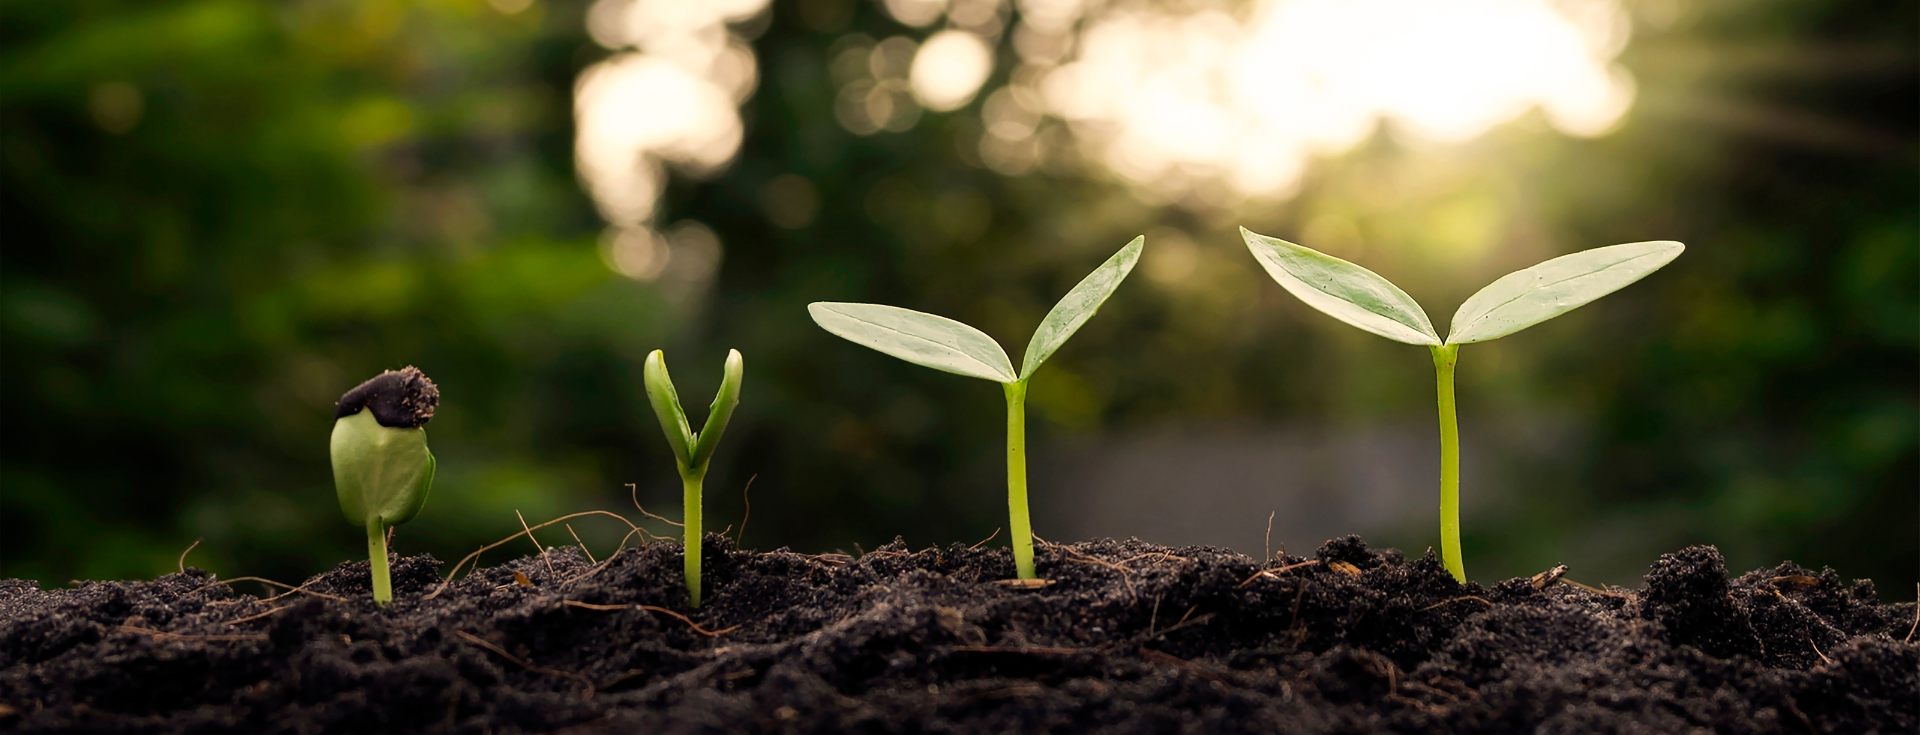
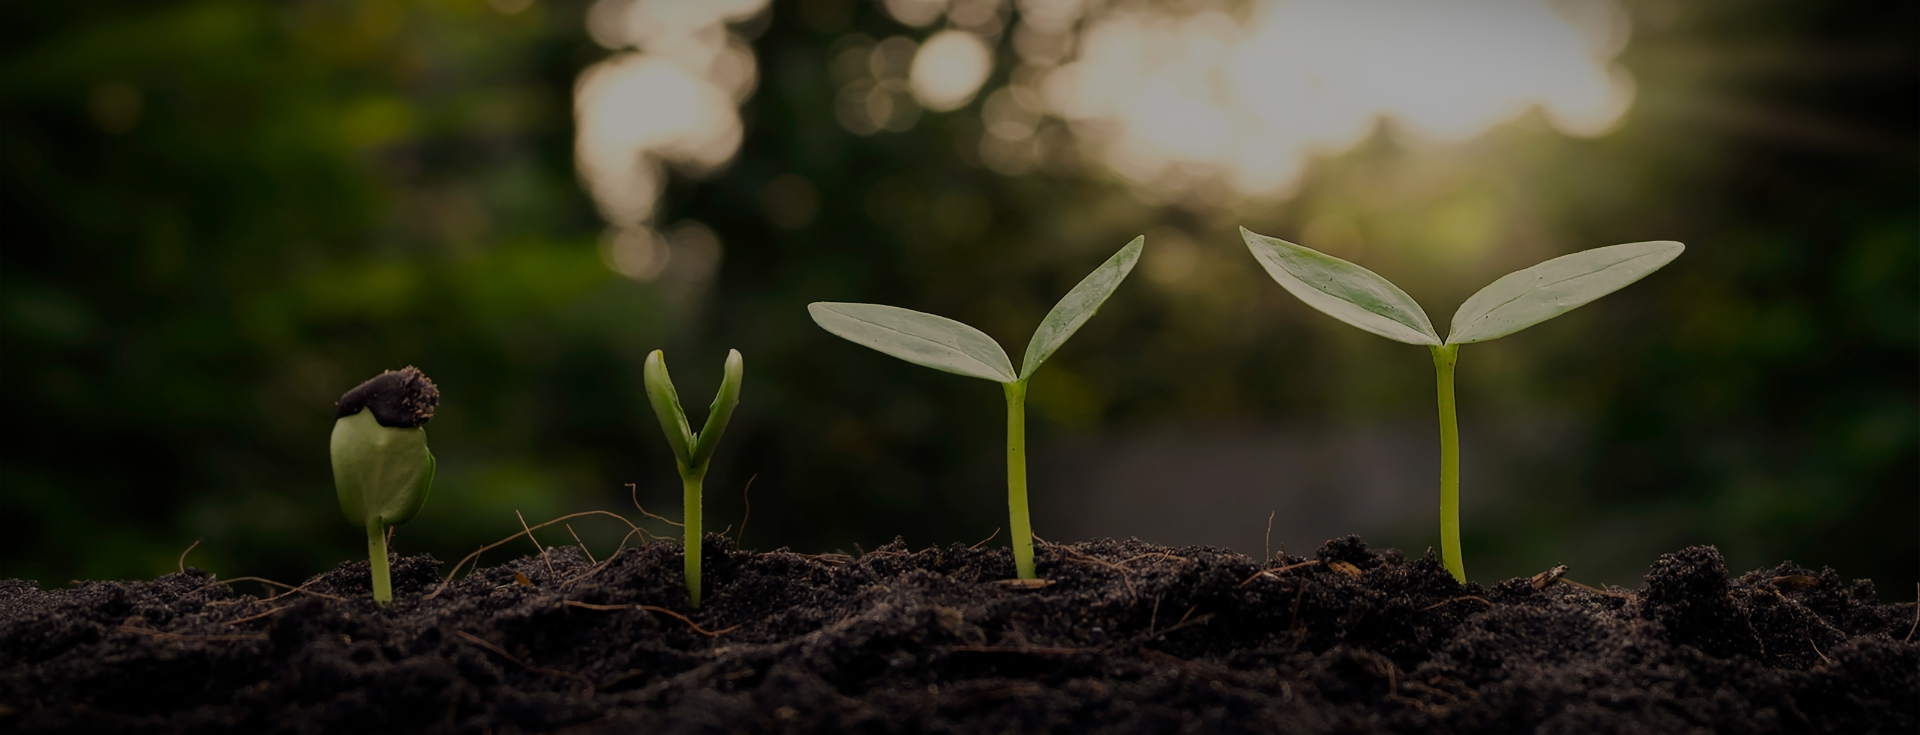
Style adjustments and client changes

diff --git a/client/src/app/app.component.css b/client/src/app/app.component.css
@@ -5,12 +5,17 @@
   z-index: 10;
   width: 100%;
 }
-.transapert{
+
+.transapert {
   background-color: transparent;
 }
-.scrolled{
-  background-image: url("../../public/hero.png");
+
+.scrolled {
+  /* background-image: url("../../public/hero.png"); */
+  background: rgb(33, 55, 1);
+  background: linear-gradient(90deg, rgba(33, 55, 1, 1) 0%, rgba(74, 61, 37, 1) 35%, rgba(33, 55, 1, 1) 100%);
 }
+
 .navbar-brand {
   color: #FAFAF5;
 }
@@ -20,7 +25,9 @@
 }
 
 .nav-link:hover {
-  background-color: #735E38;
+  background-color: #F2E8B3;
+  color: #4a3d25;
+  font-weight: 550;
 }
 
 /* STILE ICONE NAVBAR */
@@ -37,5 +44,6 @@
 }
 
 .example-icon:hover {
-  background-color: #735E38;
+  background-color: #F2E8B3;
+  color: #4a3d25;
 }

diff --git a/client/src/app/app.component.ts b/client/src/app/app.component.ts
@@ -8,11 +8,27 @@ import { Component, HostListener } from '@angular/core';
 export class AppComponent {
   title = 'client';
 
-  scrolled = false
+  scrolled = false;
+
+
+  threshold: number = 0;
+  constructor() {
+    this.setScrollThreshold();
+  }
+
+  setScrollThreshold() {
+    this.threshold = window.innerHeight * 0.6;
+  }
+
+  @HostListener('window:resize', ['$event'])
+  onResize(event: any) {
+    this.setScrollThreshold();
+  }
 
   @HostListener('window:scroll', [])
-  onWindowScroll(){
-    this.scrolled = window.scrollY > 600;
+  onWindowScroll() {
+    // Modifica la condizione di scorrimento in base alla soglia calcolata
+    this.scrolled = window.scrollY > this.threshold;
   }
 
 }

diff --git a/server/controllers/userController.js b/server/controllers/userController.js
@@ -32,12 +32,12 @@ const userController = {
             const { name, surname, email, password } = req.body;
             // Genero il salt per l' hashing e poi creo il nuovo user usando la psw criptata 
             const salt = await bcrypt.genSalt(10);
-            const pswHash = await bcrypt.hash(password, salt);
+            const password_hash = await bcrypt.hash(password, salt);
             const newUser = await Users.create({
                 name,
                 surname,
                 email,
-                pswHash
+                password_hash
             })
             res.status(201).json(newUser);
         } catch (error) {

diff --git a/client/src/app/app.component.html b/client/src/app/app.component.html
@@ -22,10 +22,10 @@
     </div>
     <!-- Area personale -->
     <button mat-icon-button class="example-icon" aria-label="Example icon-button with share icon">
-      <mat-icon>person</mat-icon>
+      <mat-icon routerLink="">person</mat-icon>
     </button>
     <button mat-icon-button class="example-icon" aria-label="Example icon-button with share icon">
-      <mat-icon>shopping_cart</mat-icon>
+      <mat-icon routerLink="">shopping_cart</mat-icon>
     </button>
   </div>
 </nav>

diff --git a/client/src/app/home/home.component.html b/client/src/app/home/home.component.html
@@ -1,7 +1,9 @@
 <!-- Immagine a schermo intero -->
 <div class="hero">
   <img src="hero.png" alt="Hero img" class="hero-img">
+  <div class="overlay"></div>
 </div>
+
 <!-- Slogan di Orizon -->
 <div id="about" class="slogan">
   <img src="slogan.png" alt="slogan">

diff --git a/client/src/app/home/home.component.css b/client/src/app/home/home.component.css
@@ -1,9 +1,9 @@
 /* STILE HERO IMG */
 .hero > img {
-  height: 100vh;
+  height: 65vh;
   width: 100vw;
+  object-fit: cover;
 }
-
 /* STILE SLOGAN */
 .slogan > img {
   width: 100vw;

diff --git a/client/src/styles.css b/client/src/styles.css
@@ -2,7 +2,7 @@
 
 /* PALETTE
 #467302 verde scuro
-#72A603 verde chiaro
+#467302 verde chiaro
 #F2E8B3 sabbia chiaro
 #BFA34E marrone chiaro
 #735E38 marrone scuro */

diff --git a/client/src/app/voyages/offers/offers.component.css b/client/src/app/voyages/offers/offers.component.css
@@ -1,5 +1,5 @@
 .hero > img {
-  height: 50vh;
+  height: 70vh;
   width: 100vw;
   object-fit: cover;
 }

diff --git a/client/src/app/voyages/destinations/destinations.component.css b/client/src/app/voyages/destinations/destinations.component.css
@@ -3,3 +3,4 @@
   width: 100vw;
   object-fit: cover;
 }
+
